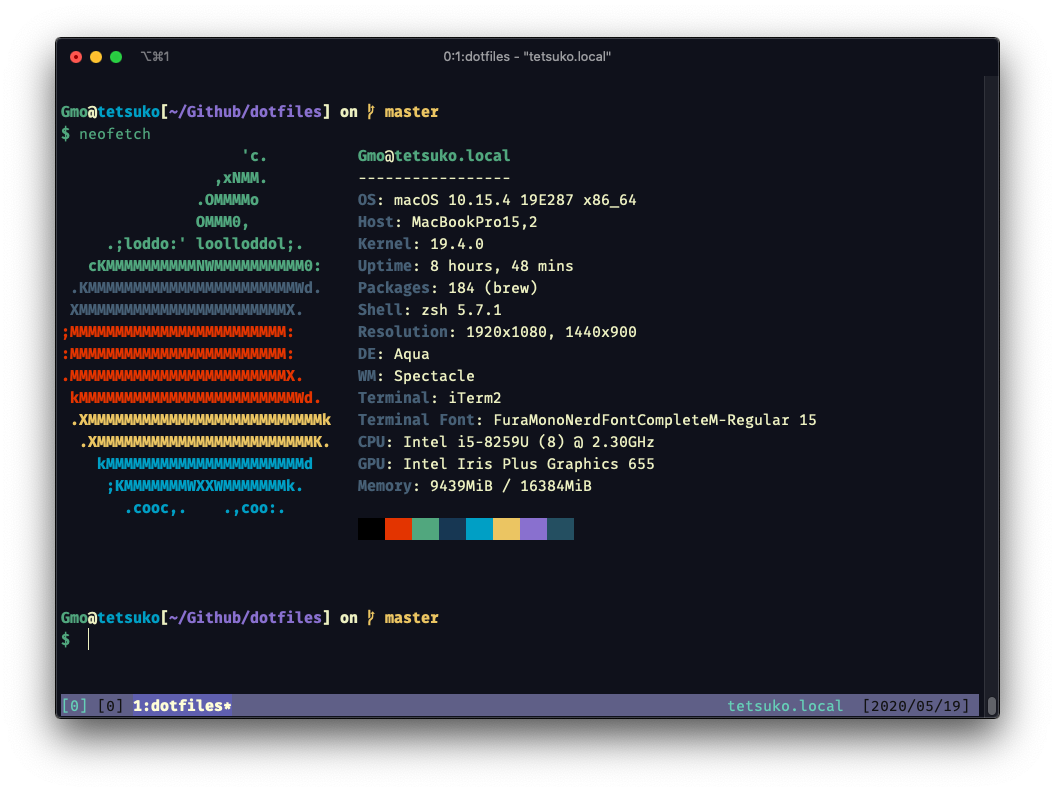
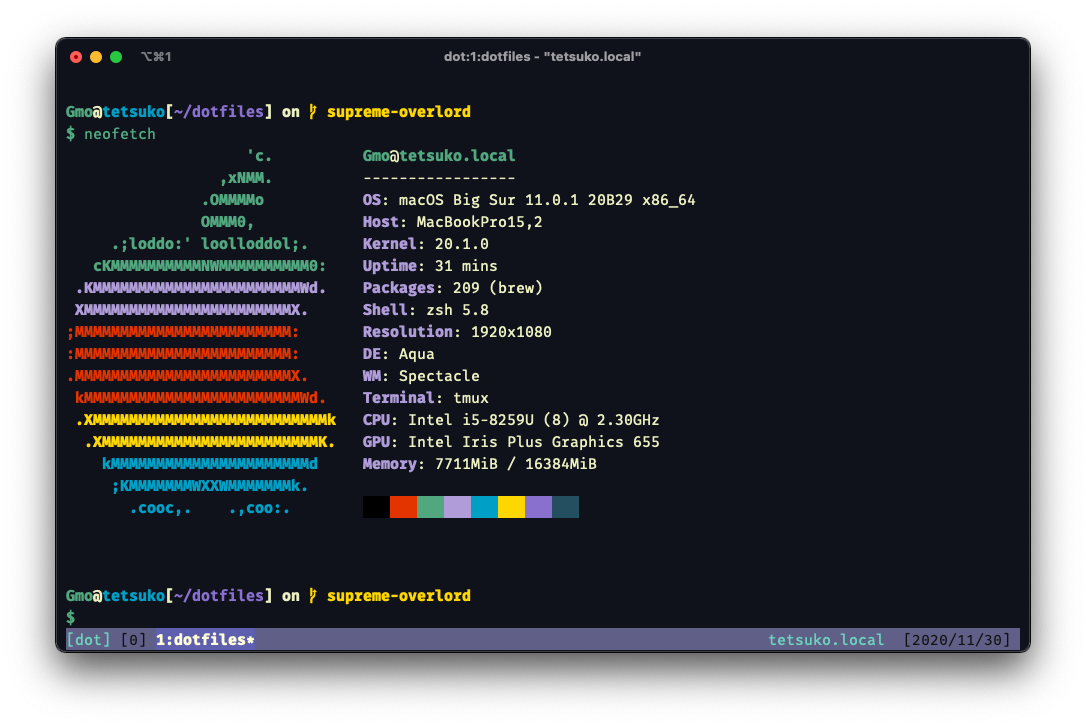
Update README

Changed region(s): [[0.0303, 0.0303, 0.9706, 0.9091], [0.546, 0.3939, 0.6066, 0.4242]]

diff --git a/README.md b/README.md
@@ -2,19 +2,24 @@
 
 > This is the safekeeping of my terminal environment! 🛸
 
-* I started using the [XDG_SPECIFICATION](https://specifications.freedesktop.org/basedir-spec/basedir-spec-latest.html) for my code to attempt to clean up my home directory.
-* Basically, if the program supports it, look for settings in my dotfiles directory which should be in $HOME/dotfiles, if not, then just put it in $HOME/.config or $HOME/.local etc etc u kno...
-    * `XDG_CACHE_HOME="${XDG_CACHE_HOME:-${HOME}/.cache}"`
-    * `XDG_CONFIG_HOME="${XDG_CONFIG_HOME:-${HOME}/.config}"`
-    * `XDG_DATA_HOME="${XDG_DATA_HOME:-${HOME}/.local/share}"`
+[sysinfo]: ./neofetch.png "A Neofetch screenshot of my mac system"
 
+![Neofetch information][sysinfo]
+
+* I started trying to use the [XDG_SPECIFICATION](https://specifications.freedesktop.org/basedir-spec/basedir-spec-latest.html) for my code to attempt to clean up my home directory.
+* Basically, if the program supports it, look for settings in my dotfiles directory which should be in `$HOME/dotfiles`, if not, then just put it in `$HOME/.config` or `$HOME/.local` etc:
+    - `XDG_CACHE_HOME="${XDG_CACHE_HOME:-${HOME}/.cache}"`
+    - `XDG_CONFIG_HOME="${XDG_CONFIG_HOME:-${HOME}/.config}"`
+    - `XDG_DATA_HOME="${XDG_DATA_HOME:-${HOME}/.local/share}"`
+
+## Directory Structure
 ```bash
 .
 ├── .cache/
 ├── .config/
 ├── .local/
 ├── .profile -> ~/.profile (symlinked to $HOME)
-├── .zprofile -> ~/.zprofile (symlinked $HOME)
+├── .zprofile -> ~/.zprofile (symlinked to $HOME)
 ├── README.md
 ├── neofetch.png
 └── setup/ -> Brew packages and mac setup 
@@ -22,10 +27,6 @@
 4 directories, 4 files
 
 ```
-
-[sysinfo]: ./neofetch.png "A Neofetch screenshot of my mac system"
-
-![Neofetch information][sysinfo]
 
 ## Programs I use:
 
